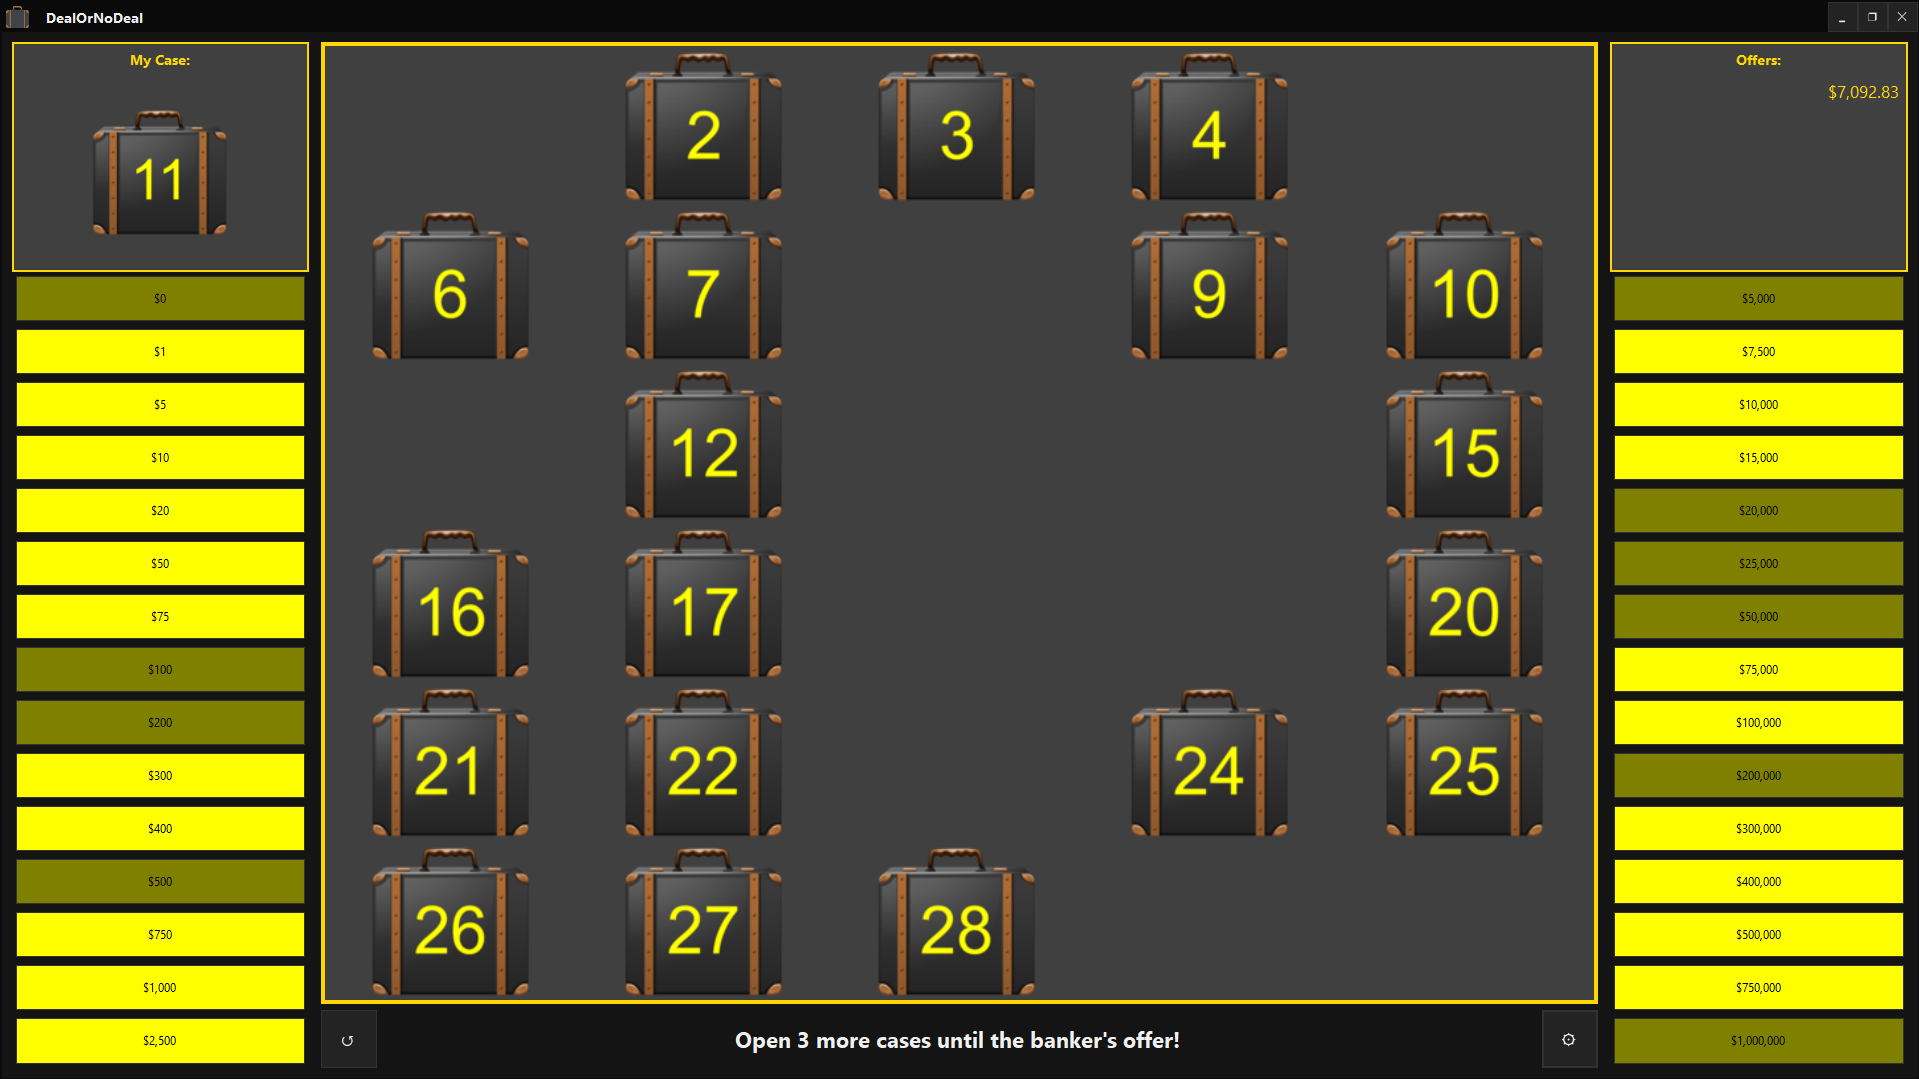
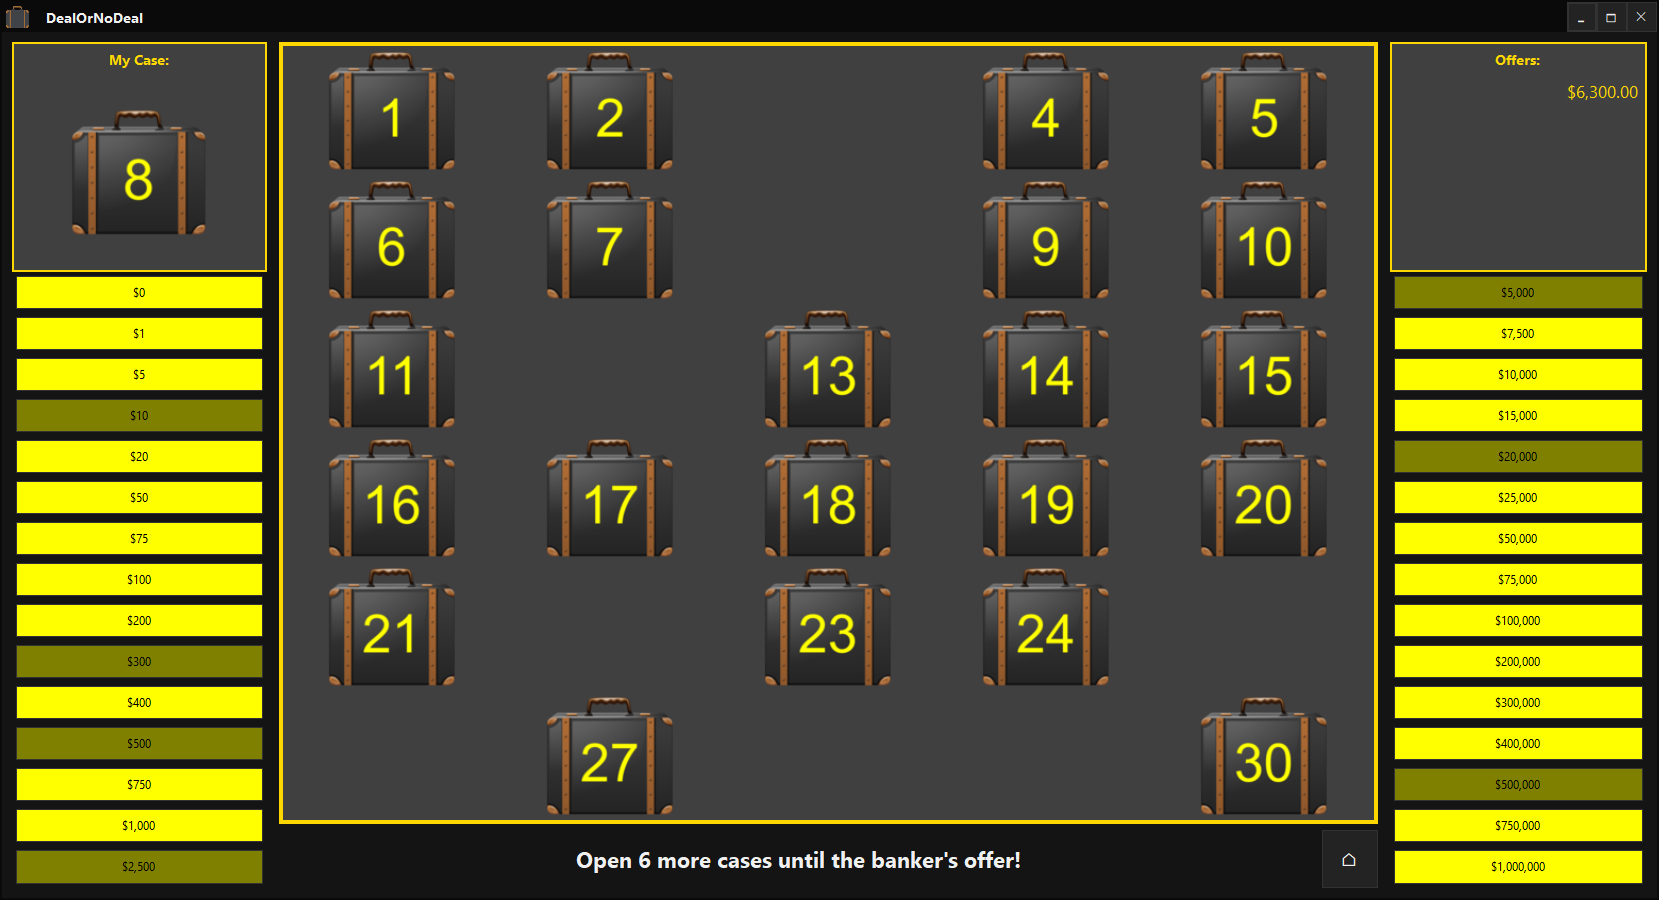
Update README screenshots - stale pre-home-screen gameplay shot, missing home screen
The old gameplay screenshot predated the home-screen redesign (still
showed the removed reset/settings-gear buttons in the corners). Replaces
it with a current one and adds a second screenshot of the home screen
(history, all-time best, inline settings), which wasn't pictured anywhere
before.

Changed region(s): [[0.0, 0.0, 1.0, 0.9956], [0.7071, 0.3111, 0.7378, 0.3422]]

diff --git a/README.md b/README.md
@@ -4,11 +4,14 @@ A WinForms recreation of the "Deal or No Deal" game show, built on top of the [C
 
 ![Deal or No Deal — case selection screen with a banker offer on the table](docs/screenshot.png)
 
+![Deal or No Deal — home screen with game history, all-time best, and inline settings](docs/screenshot-home.png)
+
 ## What it does
 
 - 30 cases, each hiding one of the show's classic money amounts ($0 up to $1,000,000)
 - A banker who makes increasingly realistic offers as the round progresses — never above the fair average of what's still in play, dampened further the more the remaining amounts vary
 - A dramatic slow-reveal animation for the final keep-or-swap decision
+- A home screen with your last 20 games, your all-time best, and inline language/currency settings
 - Presented in English, with German also available as a second language — and currency switching between $ and € — both apply live, no restart needed
 - Checks GitHub for new releases on startup and can update itself in place
 
